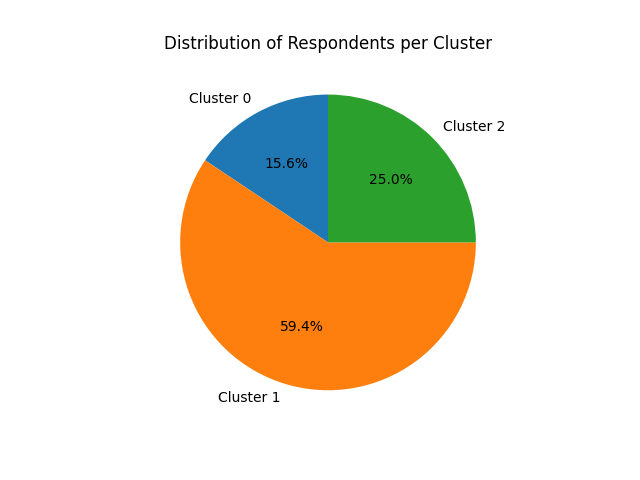
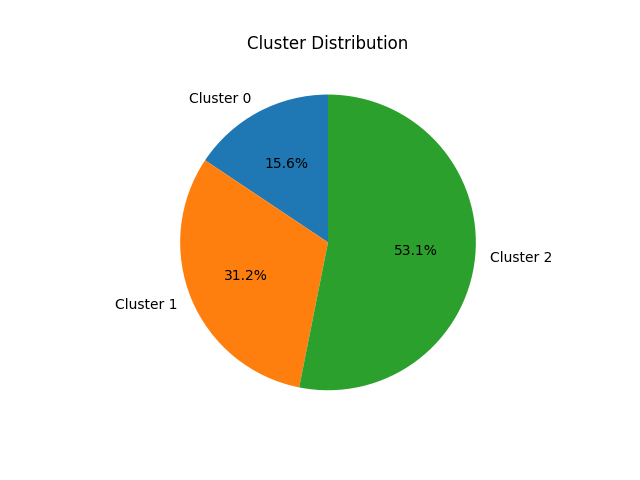
fclustiring graph

diff --git a/clustering.py b/clustering.py
@@ -1,191 +1,210 @@
 # =========================
-# IMPORT LIBRARIES
+# STEP 1: IMPORT LIBRARIES
 # =========================
 
 import pandas as pd
 import numpy as np
 import matplotlib.pyplot as plt
+
 from sklearn.cluster import KMeans
+from sklearn.metrics import silhouette_score
+from sklearn.decomposition import PCA
+
 
 # =========================
-# STEP 1: LOAD CSV FILE
+# STEP 2: LOAD DATASET
 # =========================
 
-print("Loading survey data...")
+print("Loading dataset...")
 
 df = pd.read_csv("studentdata_ordinal_kmeans.csv", encoding="latin1")
 
 df.columns = df.columns.str.strip()
 
-print("\nColumns found:")
-print(df.columns)
-
-# =========================
-# STEP 2: SELECT NUMERIC DATA
-# =========================
-
 data = df.select_dtypes(include=[np.number])
-
-print("\nNumeric data preview BEFORE cleaning:")
-print(data.head())
-
-# =========================
-# STEP 3: HANDLE MISSING VALUES
-# =========================
 
 data = data.fillna(data.mean())
 
-print("\nMissing values after cleaning:")
-print(data.isna().sum())
-
-# =========================
-# STEP 4: ELBOW METHOD
-# =========================
-
-print("\nRunning Elbow Method...")
-
-inertia_values = []
-k_range = range(1, 7)
-
-for k in k_range:
-    kmeans = KMeans(n_clusters=k, random_state=42, n_init=10)
-    kmeans.fit(data)
-    inertia_values.append(kmeans.inertia_)
-
-plt.figure()
-plt.plot(k_range, inertia_values, marker='o')
-plt.xlabel("Number of Clusters")
-plt.ylabel("Inertia")
-plt.title("Elbow Method")
-plt.savefig("elbow_graph.png")
-plt.show()
-
-print("Elbow graph saved as elbow_graph.png")
-
-# =========================
-# STEP 5: FINAL CLUSTERING
-# =========================
-
-print("\nRunning Final K-Means Clustering...")
-
-kmeans = KMeans(n_clusters=3, random_state=42, n_init=10)
-kmeans.fit(data)
-
-clusters = kmeans.labels_
-
-# Add cluster column
-df["Cluster"] = clusters
-
-# Save clustered file
-df.to_csv("studentdata_clustered.csv", index=False)
-
-print("\nClustered file saved as studentdata_clustered.csv")
-
-# =========================
-# STEP 6: COUNT DATA PER CLUSTER
-# =========================
-
-cluster_counts = df["Cluster"].value_counts().sort_index()
-
-print("\nNumber of respondents per cluster:")
-
-for cluster, count in cluster_counts.items():
-    print(f"Cluster {cluster}: {count} respondents")
-
-# =========================
-# STEP 7: PIE CHART (CIRCLE GRAPH)
-# =========================
-
-plt.figure()
-
-plt.pie(
-    cluster_counts,
-    labels=[f"Cluster {i}" for i in cluster_counts.index],
-    autopct='%1.1f%%',
-    startangle=90
-)
-
-plt.title("Distribution of Respondents per Cluster")
-
-plt.savefig("cluster_pie_chart.png")
-
-plt.show()
-
-print("Pie chart saved as cluster_pie_chart.png")
-
-# =========================
-# STEP 8: SHOW CLUSTER CENTERS
-# =========================
-
-print("\nCluster Centers:")
-
-centers = pd.DataFrame(
-    kmeans.cluster_centers_,
-    columns=data.columns
-)
-
-print(centers)
-
-print("\nSUCCESS: Clustering and visualization complete.")
-
-# =========================
-# STEP 9: SILHOUETTE METHOD
-# =========================
-
-from sklearn.metrics import silhouette_score
-from sklearn.decomposition import PCA
-
-print("\nRunning Silhouette Method...")
-
-sil_score = silhouette_score(data, clusters)
-
-print(f"Silhouette Score: {sil_score:.4f}")
-
-# Interpretation guide
-if sil_score >= 0.7:
-    print("Interpretation: Excellent clustering")
-elif sil_score >= 0.5:
-    print("Interpretation: Good clustering")
-elif sil_score >= 0.25:
-    print("Interpretation: Weak clustering")
-else:
-    print("Interpretation: Poor clustering")
+print("Dataset ready.")
 
 
 # =========================
-# STEP 10: COLORED CLUSTER GRAPH (3 DIRECTIONS)
+# STEP 3: ELBOW METHOD GRAPH (k vs SSE)
 # =========================
 
-print("\nGenerating colored cluster graph...")
+print("\nGenerating Elbow Method graph...")
 
-# Reduce data to 2D using PCA
-pca = PCA(n_components=2)
-data_2d = pca.fit_transform(data)
+k_values = range(2, 11)
 
-# Define markers for 3 clusters (3 directions)
-markers = ['o', '^', 's']  # circle, triangle, square
+sse_values = []
+silhouette_values = []
 
-plt.figure()
+for k in k_values:
 
-# Plot each cluster with different marker and color
-for cluster_id in range(3):
-
-    cluster_points = data_2d[clusters == cluster_id]
-
-    plt.scatter(
-        cluster_points[:, 0],
-        cluster_points[:, 1],
-        marker=markers[cluster_id],
-        label=f"Cluster {cluster_id}"
+    model = KMeans(
+        n_clusters=k,
+        random_state=32,
+        n_init=10
     )
 
-plt.xlabel("PCA Component 1")
-plt.ylabel("PCA Component 2")
-plt.title("Colored Cluster Visualization (3 Directions)")
-plt.legend()
+    labels = model.fit_predict(data)
 
-plt.savefig("cluster_colored_graph.png")
+    sse_values.append(model.inertia_)
+
+    sil_score = silhouette_score(data, labels)
+
+    silhouette_values.append(sil_score)
+
+    print(f"k={k}, SSE={model.inertia_:.2f}, Silhouette={sil_score:.4f}")
+
+
+plt.figure()
+
+plt.plot(k_values, sse_values, marker='o')
+
+plt.xlabel("Number of Clusters (k)")
+plt.ylabel("Sum of Squared Errors (SSE)")
+plt.title("Elbow Method")
+
+plt.savefig("elbow_method.png")
 
 plt.show()
 
-print("Colored cluster graph saved as cluster_colored_graph.png")
+print("Saved: elbow_method.png")
+
+
+
+# =========================
+# STEP 4: SILHOUETTE METHOD GRAPH (k vs silhouette score)
+# =========================
+
+print("\nGenerating Silhouette Method graph...")
+
+plt.figure()
+
+plt.plot(k_values, silhouette_values, marker='o')
+
+plt.xlabel("Number of Clusters (k)")
+plt.ylabel("Silhouette Score")
+plt.title("Silhouette Method")
+
+plt.savefig("silhouette_method.png")
+
+plt.show()
+
+print("Saved: silhouette_method.png")
+
+
+# =========================
+# STEP 5: FINAL CLUSTERING (k=3)
+# =========================
+
+print("\nApplying final clustering...")
+
+kmeans = KMeans(
+    n_clusters=3,
+    random_state=32,
+    n_init=10
+)
+
+clusters = kmeans.fit_predict(data)
+
+df["Cluster"] = clusters
+
+df.to_csv("studentdata_clustered.csv", index=False)
+
+print("Saved: studentdata_clustered.csv")
+
+
+# =========================
+# STEP 6: ELBOW CLUSTER VISUALIZATION PER k
+# =========================
+
+# =========================
+# STEP 5A: ELBOW PIE CHARTS
+# =========================
+
+print("\nGenerating Elbow Method Pie Charts...")
+
+for k in range(2, 6):
+
+    model = KMeans(
+        n_clusters=k,
+        random_state=32,
+        n_init=10
+    )
+
+    labels = model.fit_predict(data)
+
+    counts = pd.Series(labels).value_counts().sort_index()
+
+    plt.figure()
+
+    plt.pie(
+        counts,
+        labels=[f"Cluster {i}" for i in counts.index],
+        autopct="%1.1f%%",
+        startangle=90
+    )
+
+    plt.title(f"Elbow Method Cluster Distribution (k={k})")
+
+    filename = f"elbow_pie_k{k}.png"
+
+    plt.savefig(filename)
+
+    plt.show()
+
+    print(f"Saved: {filename}")
+# =========================
+
+# =========================
+# STEP 5B: SILHOUETTE PIE CHARTS
+# =========================
+
+print("\nGenerating Silhouette Method Pie Charts...")
+
+for k in range(2, 6):
+
+    model = KMeans(
+        n_clusters=k,
+        random_state=32,
+        n_init=10
+    )
+
+    labels = model.fit_predict(data)
+
+    sil = silhouette_score(data, labels)
+
+    counts = pd.Series(labels).value_counts().sort_index()
+
+    plt.figure()
+
+    plt.pie(
+        counts,
+        labels=[f"Cluster {i}" for i in counts.index],
+        autopct="%1.1f%%",
+        startangle=90
+    )
+
+    plt.title(f"Silhouette Method Cluster Distribution (k={k}) Score={sil:.3f}")
+
+    filename = f"silhouette_pie_k{k}.png"
+
+    plt.savefig(filename)
+
+    plt.show()
+
+    print(f"Saved: {filename}")
+
+# =========================
+# STEP 8: COMPLETE
+# =========================
+
+print("\nPROCESS COMPLETE")
+print("Generated files:")
+print("elbow_method.png")
+print("silhouette_method.png")
+print("elbow_clusters.png")
+print("silhouette_clusters.png")
+print("studentdata_clustered.csv")
